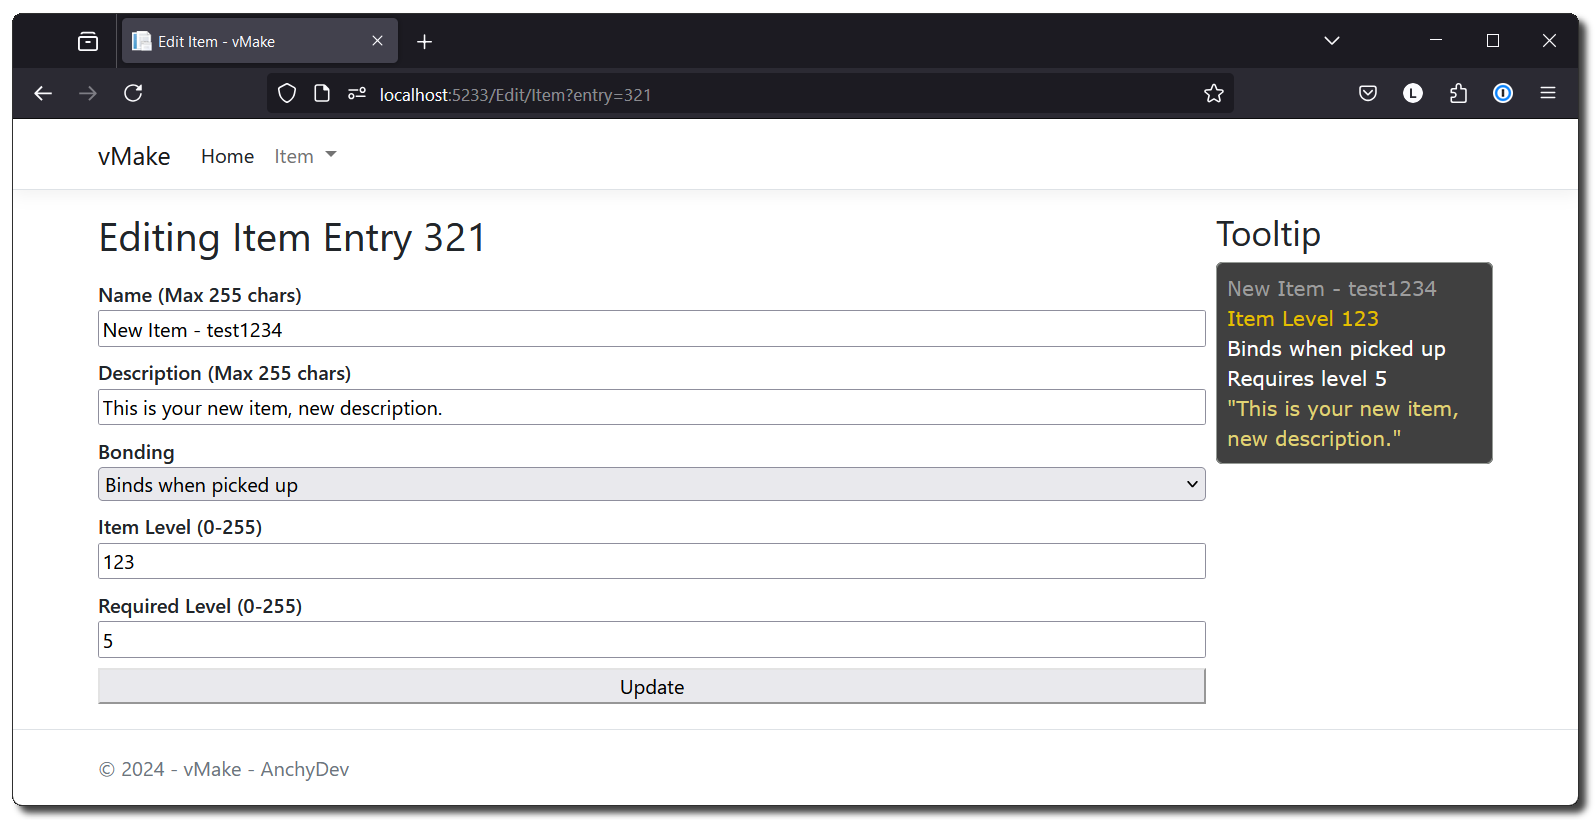
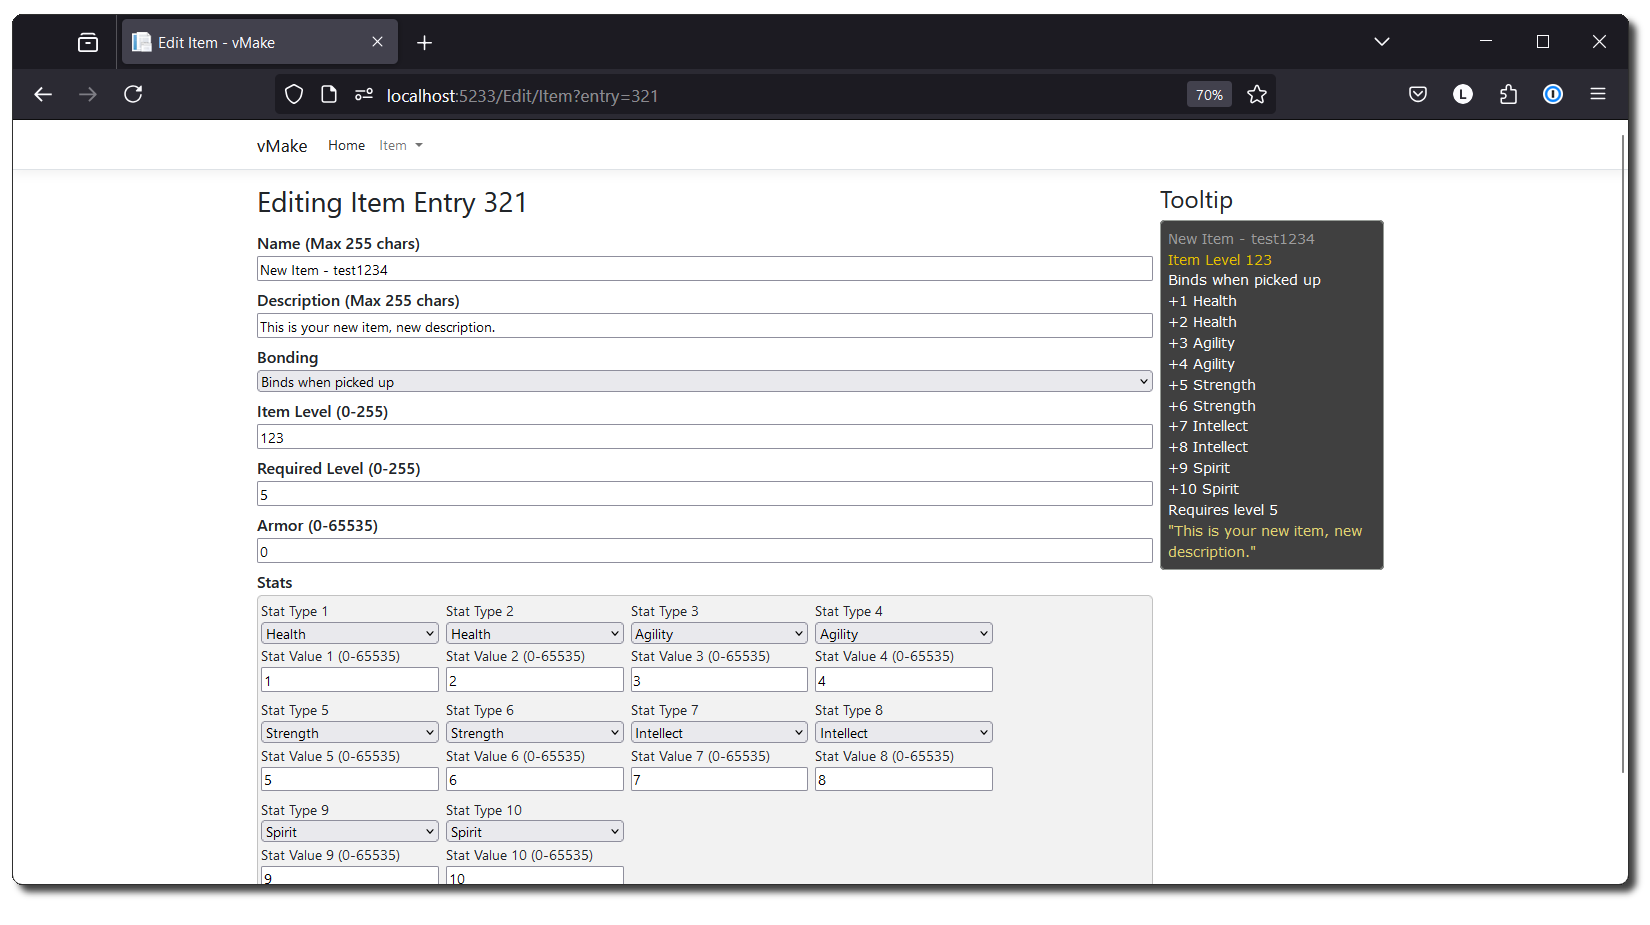
Added all stats.

Changed region(s): [[0.0, 0.0, 1.0, 1.0], [0.7066, 0.7927, 0.7373, 0.8232], [0.6759, 0.8537, 0.7066, 0.8841]]

diff --git a/wwwroot/css/site.css b/wwwroot/css/site.css
@@ -34,8 +34,24 @@ body {
 
     gap: 0.1rem;
 }
-.vmake-form-item label {
+.vmake-form-item-group {
+    display: flex;
+    flex-direction: row;
+
+    background-color: rgba(0, 0, 0, 0.05);
+
+    border: 1px solid rgba(0, 0, 0, 0.2);
+    border-radius: 5px;
+
+    padding: 0.25rem;
+
+    flex-wrap: wrap;
+
+    gap: 0.5rem;
+}
+.vmake-form-item-label {
     font-weight: 600;
+    font-size: 1.15rem;
 }
 
 .vmake-tooltip {
@@ -63,4 +79,8 @@ body {
     flex-direction: row;
 
     gap: 0.5rem;
+}
+
+.hide {
+    display: none;
 }
